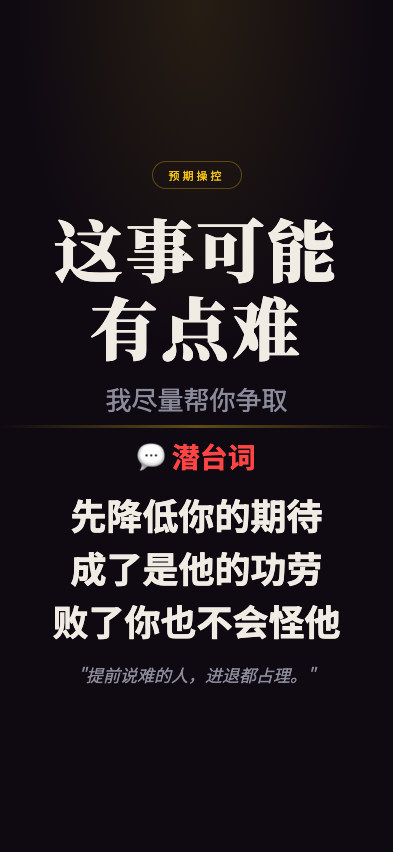
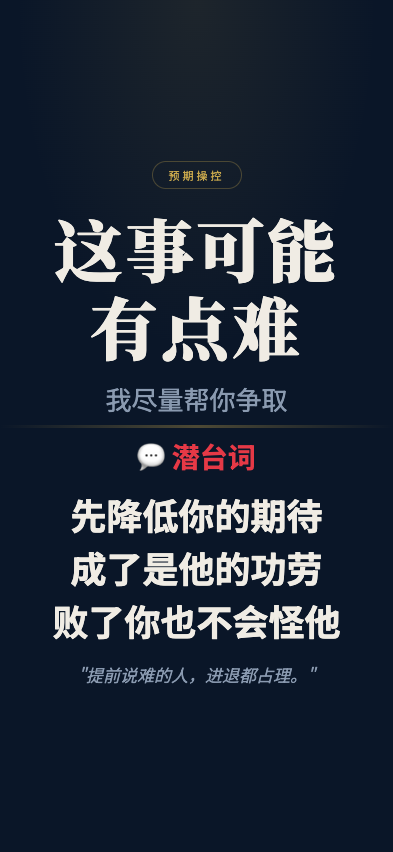
feat: 职场生存法则 screenshot - dongxingongzuo-v6

Changed region(s): [[0.1527, 0.4883, 0.855, 0.5493], [0.3664, 0.0, 0.6412, 0.1221], [0.4275, 0.1831, 0.5802, 0.2136]]

diff --git a/wuliao-tools/tools/biz-speak/scenes/zheshikenengyoudiannan.html b/wuliao-tools/tools/biz-speak/scenes/zheshikenengyoudiannan.html
@@ -7,11 +7,11 @@
 <link href="https://fonts.googleapis.com/css2?family=Noto+Serif+SC:wght@400;700;900&family=Noto+Sans+SC:wght@300;400;700&display=swap" rel="stylesheet">
 <style>
   :root {
-    --bg: #0f0a12;
+    --bg: #0a1628;
     --text: #f0ece4;
-    --text-dim: #8a8a9a;
-    --gold: #f5c518;
-    --red: #ff4444;
+    --text-dim: #8a9ab0;
+    --gold: #c9a84c;
+    --red: #e63946;
   }
   * { margin:0; padding:0; box-sizing:border-box; }
   html, body { width:100%; height:100%; overflow:hidden; }
@@ -24,11 +24,11 @@
   }
   body::before {
     content:''; position:absolute; top:0; left:0; right:0; height:45%;
-    background:radial-gradient(ellipse at 50% 0%, rgba(245,197,24,0.1) 0%, transparent 65%);
+    background:radial-gradient(ellipse at 50% 0%, rgba(201,168,76,0.1) 0%, transparent 65%);
     pointer-events:none; z-index:0;
   }
   .top { flex:1; display:flex; flex-direction:column; align-items:center; justify-content:flex-end; padding:4px 28px 8px; position:relative; z-index:1; }
-  .tag { font-size:11px; letter-spacing:3px; color:var(--gold); border:1px solid rgba(245,197,24,0.3); padding:5px 16px; border-radius:50px; margin-bottom:20px; }
+  .tag { font-size:11px; letter-spacing:3px; color:var(--gold); border:1px solid rgba(201,168,76,0.3); padding:5px 16px; border-radius:50px; margin-bottom:20px; }
   .main-title { font-family:'Noto Serif SC'; font-size:68px; font-weight:900; text-align:center; line-height:1.15; letter-spacing:3px; min-width:0; overflow-wrap:break-word; max-width:92%; }
   .sub-title { font-size:26px; color:var(--text-dim); text-align:center; margin-top:14px; }
   .divider { width:100%; height:3px; background:linear-gradient(90deg,transparent,var(--gold),transparent); opacity:0.35; flex-shrink:0; position:relative; z-index:1; }
@@ -39,7 +39,7 @@
   .quote { font-size:17px; color:var(--text-dim); font-style:italic; text-align:center; line-height:1.8; margin-top:18px; padding:0 12px; }
 </style>
 </head>
-<body>
+<body class="theme-1">
   <div class="top">
     <div class="tag">预期操控</div>
     <div class="main-title">这事可能有点难</div>
@@ -49,9 +49,7 @@
   <div class="bottom">
     <div class="truth-label">💬 潜台词</div>
     <div class="truth-lines">
-      <div class="truth-line">先降低你的期待</div>
-      <div class="truth-line">成了是他的功劳</div>
-      <div class="truth-line">败了你也不会怪他</div>
+      <div class="truth-line">先降低你的期待</div><div class="truth-line">成了是他的功劳</div><div class="truth-line">败了你也不会怪他</div>
     </div>
     <div class="quote">"提前说难的人，进退都占理。"</div>
   </div>
